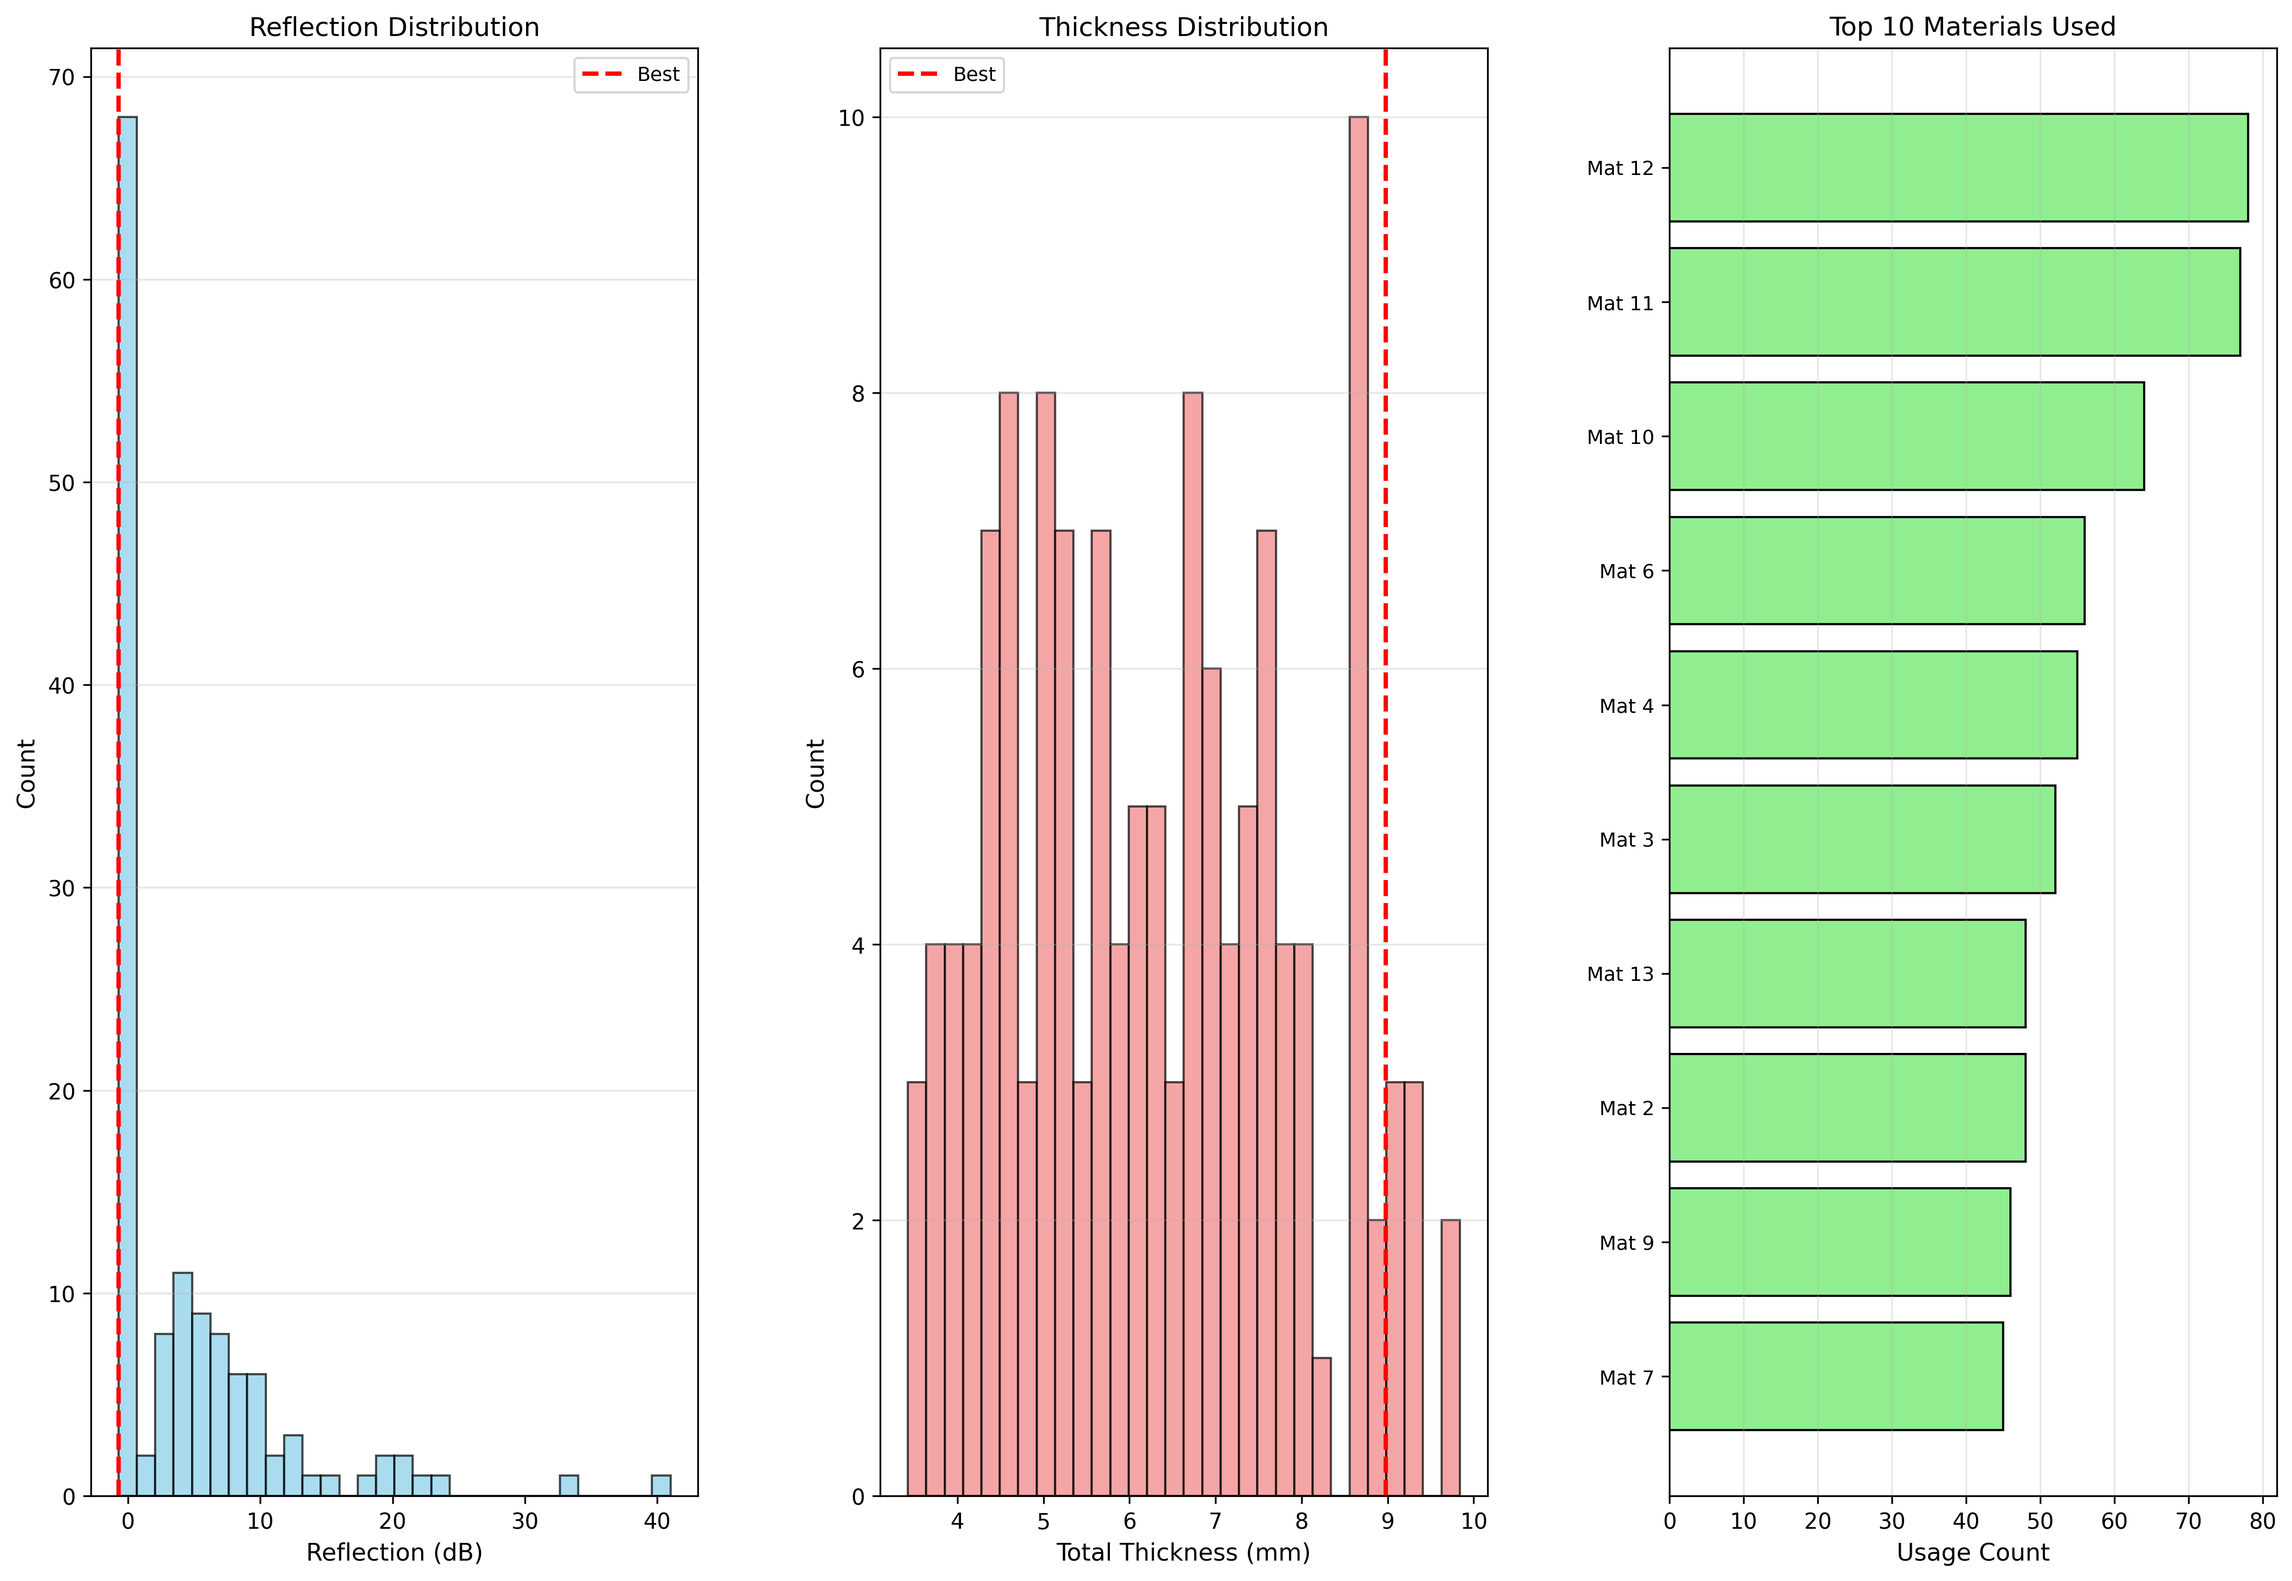
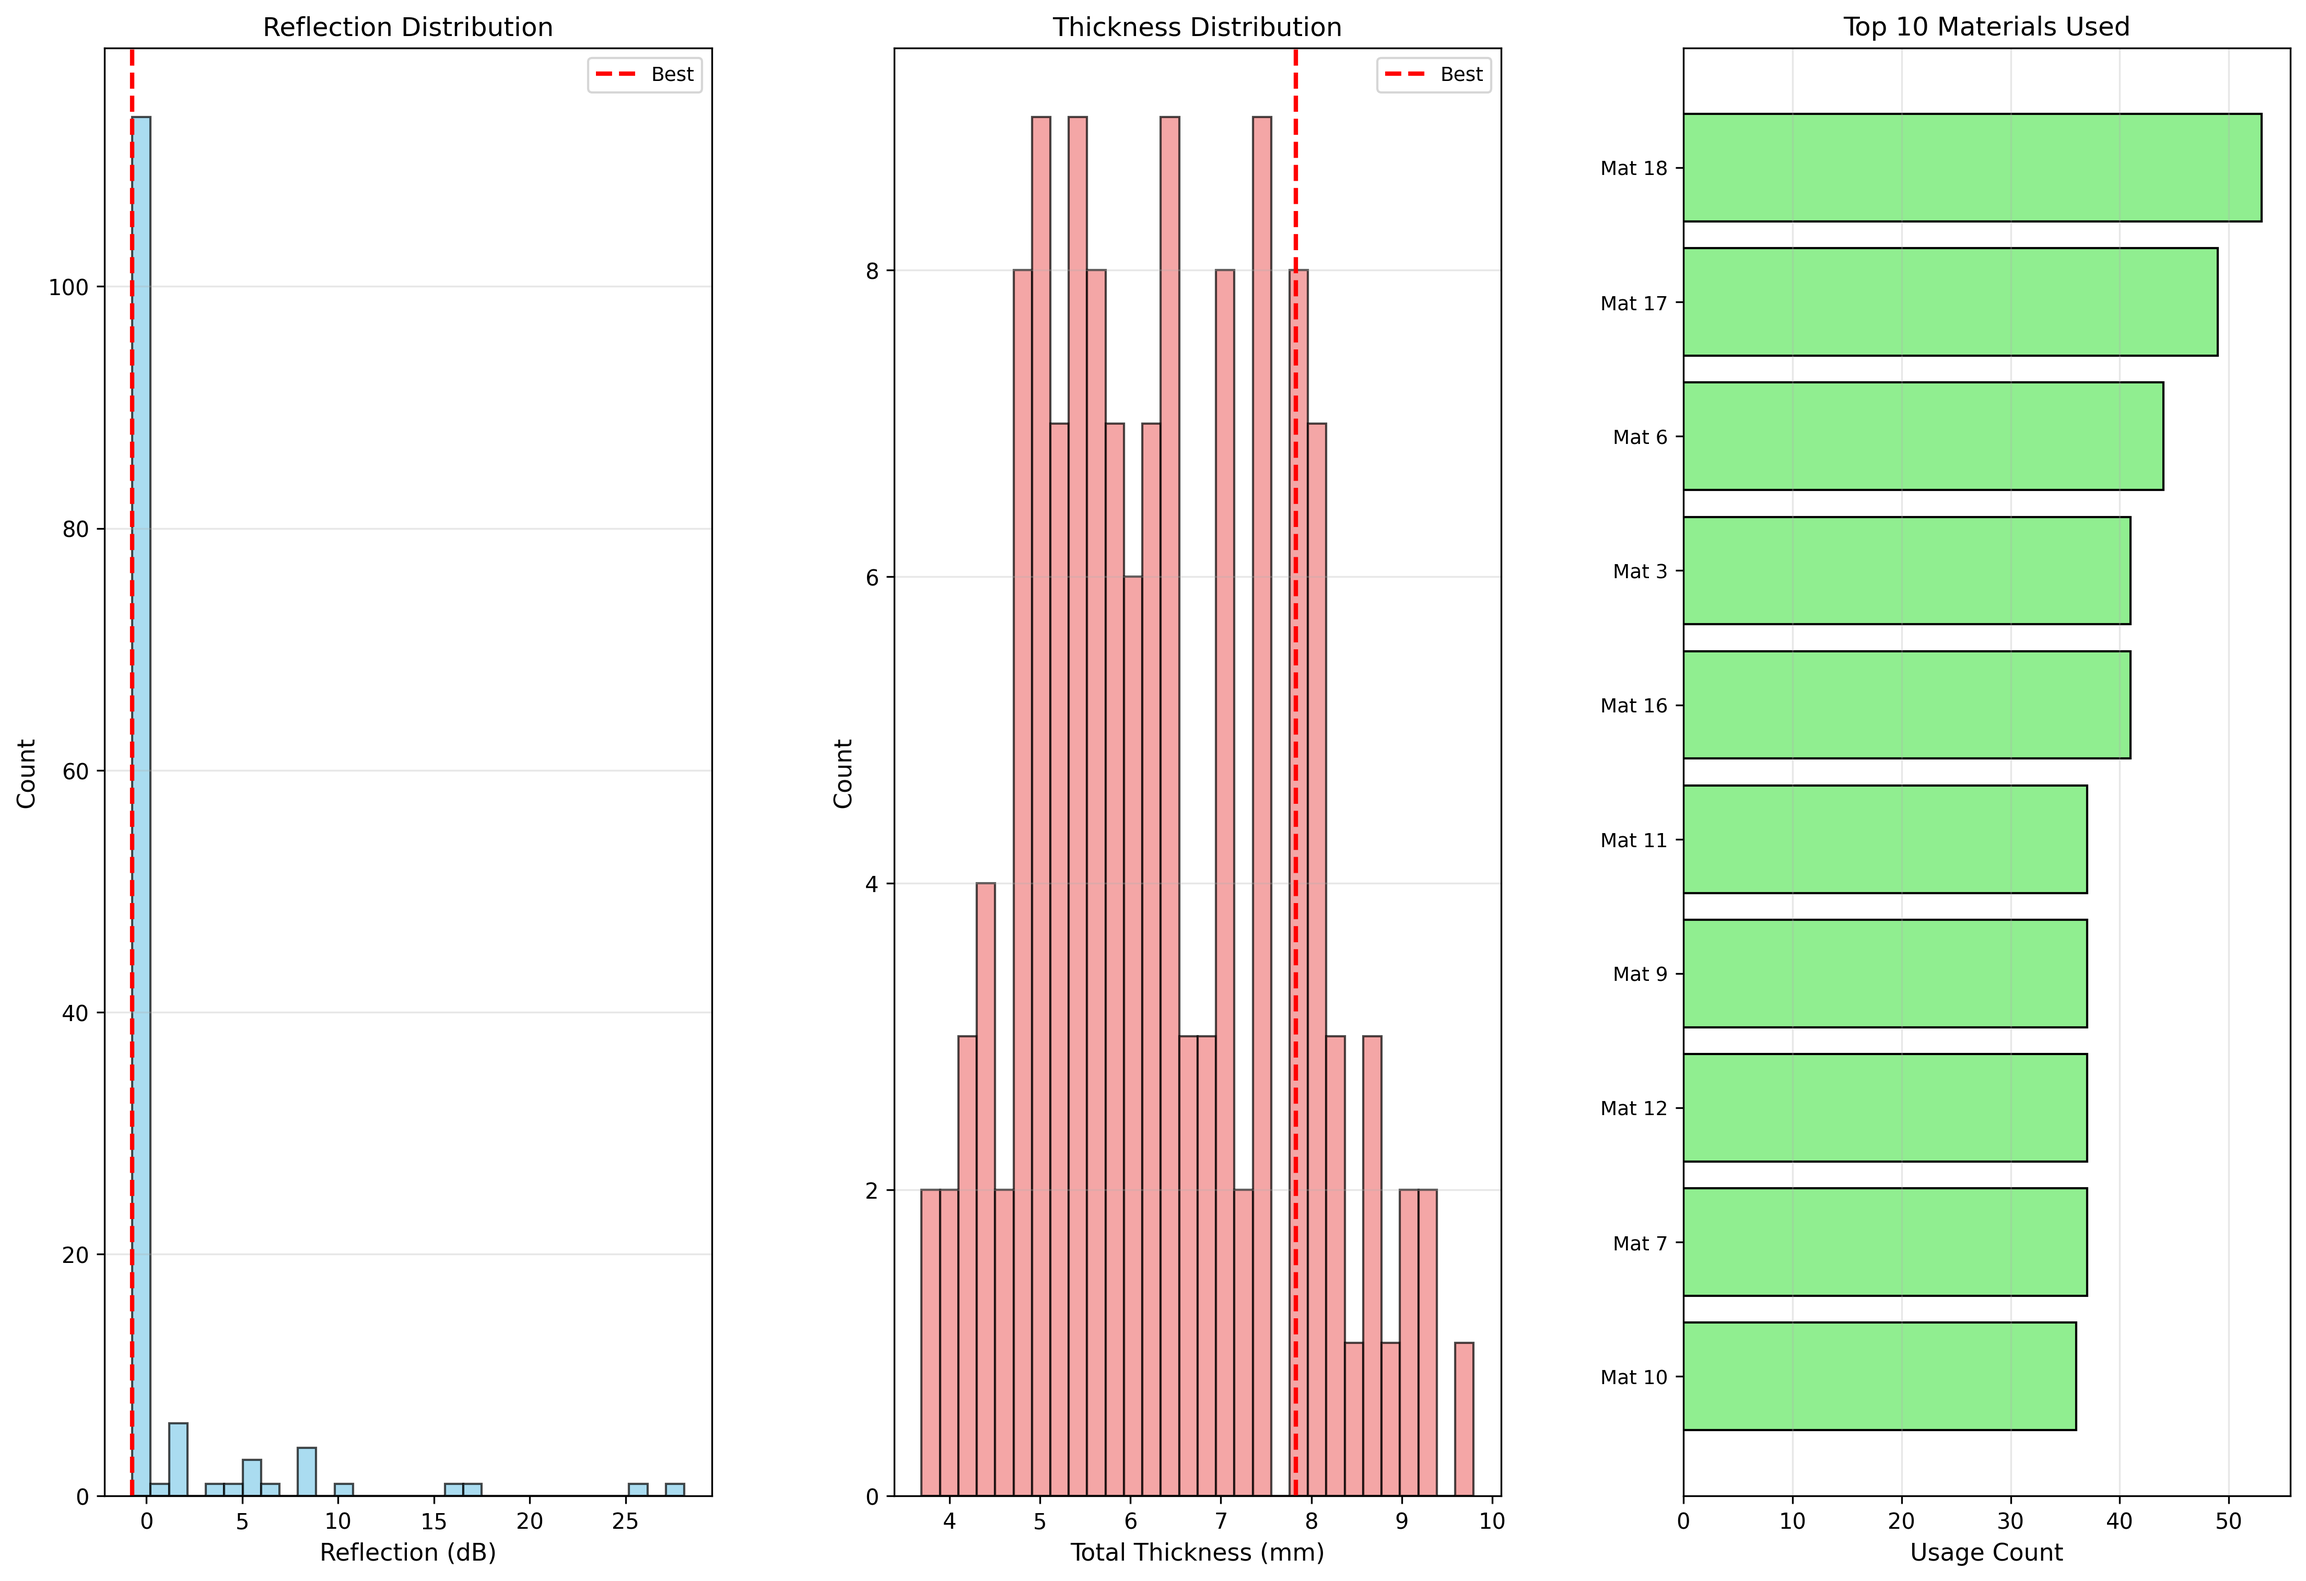
Updated library

diff --git a/radar/Real_Materials/Optimization/Materials_Library_NEW.py b/radar/Real_Materials/Optimization/Materials_Library_NEW.py
@@ -1,6 +1,6 @@
 materials_data = [
    { 
-        'name': "Fused silica glass (Dynasil 4000, 2.16–2.2 g/cc) (0.1–100 GHz)",
+        'name': "Fused silica glass (Dynasil 4000, 2.16–2.2 g/cc) (0.1–100 GHz)", #1
         'section': 1, 
         'freq_range_ghz': (0.1, 100),
         'eps_params': {
@@ -13,7 +13,7 @@ materials_data = [
             'J': -0.0000335 - 0.000000074j}
     },
     {
-        'name': "80 µm 9%/vol in epoxy, 1.38 g/cc",
+        'name': "80 µm 9%/vol in epoxy, 1.38 g/cc", #2
         'section': 4,
         'freq_range_ghz': (0.05, 18),
         'chi_m_params': {
@@ -31,7 +31,7 @@ materials_data = [
             'H': -18.6+10.47j}
     },
     {
-        'name': "80 µm 16%/vol in epoxy, 1.6 g/cc",
+        'name': "80 µm 16%/vol in epoxy, 1.6 g/cc", #3
         'section': 4,
         'freq_range_ghz': (0.001, 10),
         'chi_m_params': {
@@ -49,7 +49,7 @@ materials_data = [
             'H': 51.6+43.9j}
     },
     {
-        'name': "80 µm 16.7%/vol in epoxy, 1.68 g/cc",
+        'name': "80 µm 16.7%/vol in epoxy, 1.68 g/cc", #4
         'section': 4,
         'freq_range_ghz': (0.05, 10),
         'chi_m_params': {
@@ -66,24 +66,7 @@ materials_data = [
         'eps2_params': None
     },
     {
-        'name': "80 µm 29.9%/vol in epoxy, 2.22 g/cc (0.05-10 GHz)",
-        'section': 4,
-        'freq_range_ghz': (0.05, 10),
-        'chi_m_params': {
-            'B': 2.21, 
-            'C': 0.866, 
-            'D': 0.940},
-        'eps1_params': {
-            'B': 2.57+0.55j, 
-            'C': 1.46+0.56j, 
-            'D': -3e-3-4e-3j, 
-            'E': -0.44-1.1j, 
-            'F': 20.16+7.5j, 
-            'G': -11.9-73.9j},
-        'eps2_params': None
-    },
-    {
-        'name': "80 µm 29.9%/vol in epoxy, 2.22 g/cc (0.001-18 GHz)",
+        'name': "80 µm 29.9%/vol in epoxy, 2.22 g/cc (0.001-18 GHz)", #6
         'section': 4,
         'freq_range_ghz': (0.001, 18),
         'chi_m_params': {
@@ -100,7 +83,7 @@ materials_data = [
         'eps2_params': None
     },
     {
-        'name': "80 µm 41.1%/vol in epoxy, 2.68 g/cc",
+        'name': "80 µm 41.1%/vol in epoxy, 2.68 g/cc", #7
         'section': 4,
         'freq_range_ghz': (0.05, 10),
         'chi_m_params': {
@@ -124,7 +107,7 @@ materials_data = [
             'H': -10.26-4.8j}
     },
     {
-        'name': "80 µm 49.4%/vol in epoxy, ~3.0 g/cc",
+        'name': "80 µm 49.4%/vol in epoxy, ~3.0 g/cc", #8
         'section': 4,
         'freq_range_ghz': (0.001, 10),
         'chi_m_params': {
@@ -142,55 +125,7 @@ materials_data = [
             'H': -13.73-1.87j}
     },
     {
-        'name': "80 µm 53.6%/vol in epoxy, ~3.2 g/cc",
-        'section': 4,
-        'freq_range_ghz': (0.05, 10),
-        'chi_m_params': {
-            'B': 4.72, 
-            'C': 0.7178, 
-            'D': 0.3421},
-        'eps1_params': {
-            'B': 1.63-2E-02j, 
-            'C': 1.47+7E-02j, 
-            'D': -5E-002-0.17j, 
-            'E': 1.89-2E-002j, 
-            'F': 1.64+13.67j, 
-            'G': 14.2+22.1j},
-        'eps2_params': {
-            'B': 3.28+2E-002j, 
-            'C': 0.31-9E-002j, 
-            'D': 0.39+0.3j, 
-            'E': -0.94+0.63j, 
-            'F': 1.72-2E-003j, 
-            'G': 7.89+9.44j, 
-            'H': 6.18-49.19j}
-    },
-    {
-        'name': "80 µm 58.4%/vol in epoxy, ~3.29 g/cc",
-        'section': 4,
-        'freq_range_ghz': (0.05, 10),
-        'chi_m_params': {
-            'B': 8.86, 
-            'C': 0.34, 
-            'D': 0.12},
-        'eps1_params': {
-            'B': 1.2-1.4j, 
-            'C': 1.9-0.98j, 
-            'D': -0.12-0.16j, 
-            'E': 2.05+2.73j, 
-            'F': 7.32-15.6j, 
-            'G': -33.7+20.6j},
-        'eps2_params': {
-            'B': 3.49+0.18j, 
-            'C': 0.6-0.16j, 
-            'D': 0.34-3.7E-002j, 
-            'E': -0.74+0.72j, 
-            'F': 2.29+2E-002j, 
-            'G': 2.87+2.01j, 
-            'H': 0.9-2.7j}
-    },
-    {
-        'name': "80 µm 61.4%/vol in epoxy, ~3.52 g/cc",
+        'name': "80 µm 61.4%/vol in epoxy, ~3.52 g/cc", #11
         'section': 4,
         'freq_range_ghz': (0.05, 10),
         'chi_m_params': {
@@ -214,7 +149,7 @@ materials_data = [
             'H': -3.12-11.9j}
     },
     {
-        'name': "80 µm 61.8%/vol in epoxy, ~3.53 g/cc",
+        'name': "80 µm 61.8%/vol in epoxy, ~3.53 g/cc", #12
         'section': 4,
         'freq_range_ghz': (0.05, 10),
         'chi_m_params': {
@@ -238,7 +173,7 @@ materials_data = [
             'H': 1.48-5.1j}
     },
     {
-        'name': "80 µm 76.1%/vol in epoxy, ~4.12 g/cc",
+        'name': "80 µm 76.1%/vol in epoxy, ~4.12 g/cc", #13
         'section': 4,
         'freq_range_ghz': (0.001, 10),
         'chi_m_params': {
@@ -262,31 +197,7 @@ materials_data = [
             'H': -11.8-19j}
     },
     {
-        'name': "500-nm Fe 7% + 80-µm Ferrite 7%/vol in epoxy, 1.8 g/cc",
-        'section': 4,
-        'freq_range_ghz': (0.001, 18),
-        'chi_m_params': {
-            'B': 1.05, 
-            'C': 3.32, 
-            'D': 1.68},
-        'eps1_params': {
-            'B': 0.99-1.45j, 
-            'C': 2.26-1.16j, 
-            'D': -0.0097-0.02j, 
-            'E': 2.1+2.73j, 
-            'F': 48.8+112j, 
-            'G': 47.2+119j},
-        'eps2_params': {
-            'B': 2.94+0.29j, 
-            'C': 0.96-0.71j, 
-            'D': 0.49+0.08j, 
-            'E': 0.32-0.12j, 
-            'F': 2.45+0.08j, 
-            'G': 12.6+4j, 
-            'H': -8.1-10.9j}
-    },
-    {
-        'name': "500-nm Fe 10.2% + 80-µm Ferrite 10.1%/vol in epoxy, 2.1 g/cc",
+        'name': "500-nm Fe 10.2% + 80-µm Ferrite 10.1%/vol in epoxy, 2.1 g/cc", #15
         'section': 4,
         'freq_range_ghz': (0.001, 10),
         'chi_m_params': {
@@ -310,7 +221,7 @@ materials_data = [
             'H': -8.4-2.6j}
     },
     {
-        'name': "500-nm Fe 13.4% + 80-µm Ferrite 13.6%/vol in epoxy, 2.43 g/cc",
+        'name': "500-nm Fe 13.4% + 80-µm Ferrite 13.6%/vol in epoxy, 2.43 g/cc", #16
         'section': 4,
         'freq_range_ghz': (0.05, 10),
         'chi_m_params': {
@@ -334,55 +245,7 @@ materials_data = [
             'H': -34.8+6.3j}
     },
     {
-        'name': "500-nm Fe 17.5% + 80-µm Ferrite 17.5%/vol in epoxy, 2.82 g/cc",
-        'section': 4,
-        'freq_range_ghz': (0.05, 10),
-        'chi_m_params': {
-            'B': 4.86, 
-            'C': 0.954, 
-            'D': 0.3640},
-        'eps1_params': {
-            'B': 2.08-0.82j, 
-            'C': 3.16-0.69j, 
-            'D': 0.28+9E-002j, 
-            'E': 5.78+2.28j, 
-            'F': 4.2+0.3j, 
-            'G': 1.26-2.32j},
-        'eps2_params': {
-            'B': 4.3+0.26j, 
-            'C': 1.13-0.86j, 
-            'D': -0.18-0.1j, 
-            'E': 0.57+0.11j, 
-            'F': 3.47+0.25j, 
-            'G': 2-16.1j, 
-            'H': -0.32+22.9j}
-    },
-    {
-        'name': "500-nm Fe 19.9% + 80-µm Ferrite 20.0%/vol in epoxy, 3.1 g/cc",
-        'section': 4,
-        'freq_range_ghz': (0.001, 10),
-        'chi_m_params': {
-            'B': 8.14, 
-            'C': 0.55, 
-            'D': 0.21},
-        'eps1_params': {
-            'B': 2.41-1.8j, 
-            'C': 3.27-1.2j, 
-            'D': 8E-002+0.61j, 
-            'E': 6.13+6.3j, 
-            'F': 1.39+1.64j, 
-            'G': 0.74-0.86j},
-        'eps2_params': {
-            'B': 3.67-4E-002j, 
-            'C': 0.75-0.53j, 
-            'D': -0.3-0.4j, 
-            'E': -0.21+0.11j, 
-            'F': 3.05-6E-002j, 
-            'G': 23.64+12.3j, 
-            'H': 16.3+5.2j}
-    },
-    {
-        'name': "500-nm Fe 23.3% + 80-µm Ferrite 23.3%/vol in epoxy, 3.4 g/cc",
+        'name': "500-nm Fe 23.3% + 80-µm Ferrite 23.3%/vol in epoxy, 3.4 g/cc", #19
         'section': 4,
         'freq_range_ghz': (0.05, 10),
         'chi_m_params': {

diff --git a/radar/Real_Materials/Optimization/test_script.py b/radar/Real_Materials/Optimization/test_script.py
@@ -3,7 +3,7 @@ import jax.numpy as jnp
 from utils_materials_real_try import get_eps_mus_real_materials
 
 # Test a few materials
-test_materials = range(1,13)  # The materials from your optimal structure
+test_materials = range(1,20)  # The materials from your optimal structure
 frequencies_GHz = np.linspace(0.2, 8, 100)
 
 for mat_idx in test_materials:

diff --git a/radar/Real_Materials/Optimization/Bay_Real_GAUSSIAN.py b/radar/Real_Materials/Optimization/Bay_Real_GAUSSIAN.py
@@ -12,7 +12,7 @@ import time
 from pathlib import Path
 from Materials_Library_NEW import materials_data
 import utils_materials_real_try as utils_materials_module
-from utils_materials_real_try import get_eps_mus_real_materials
+from utils_materials_real_try import get_eps_mu
 from jaxlayerlumos import stackrt_eps_mu
 
 # Store original functions
